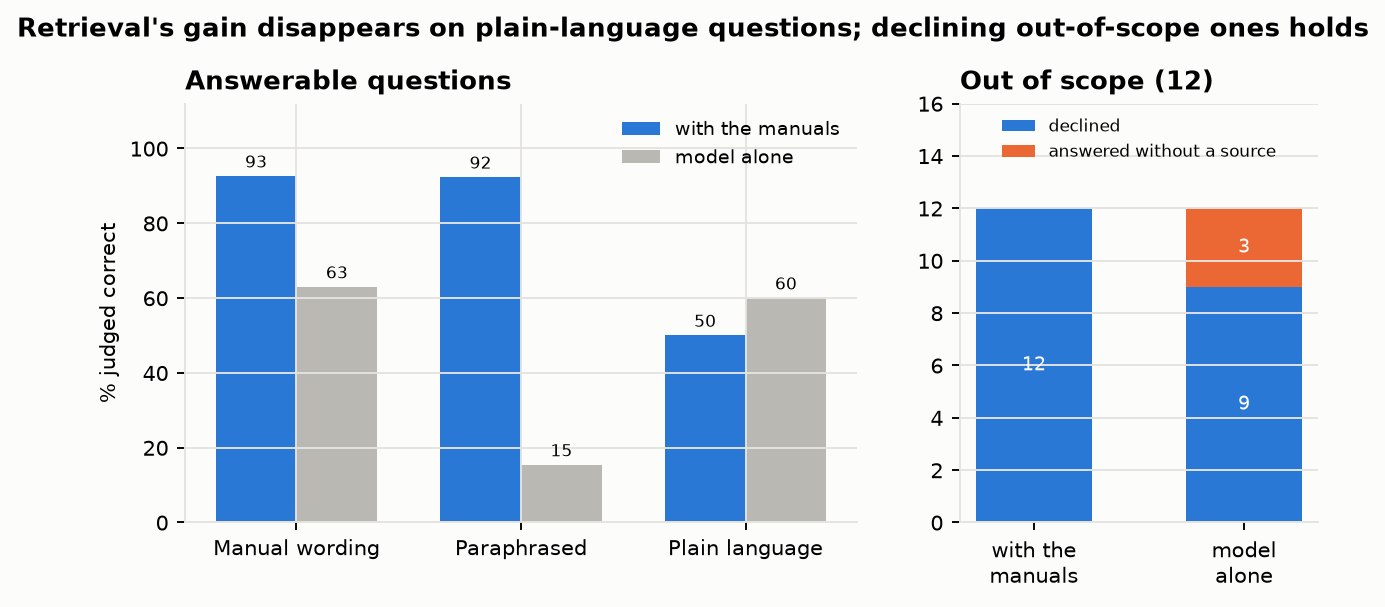
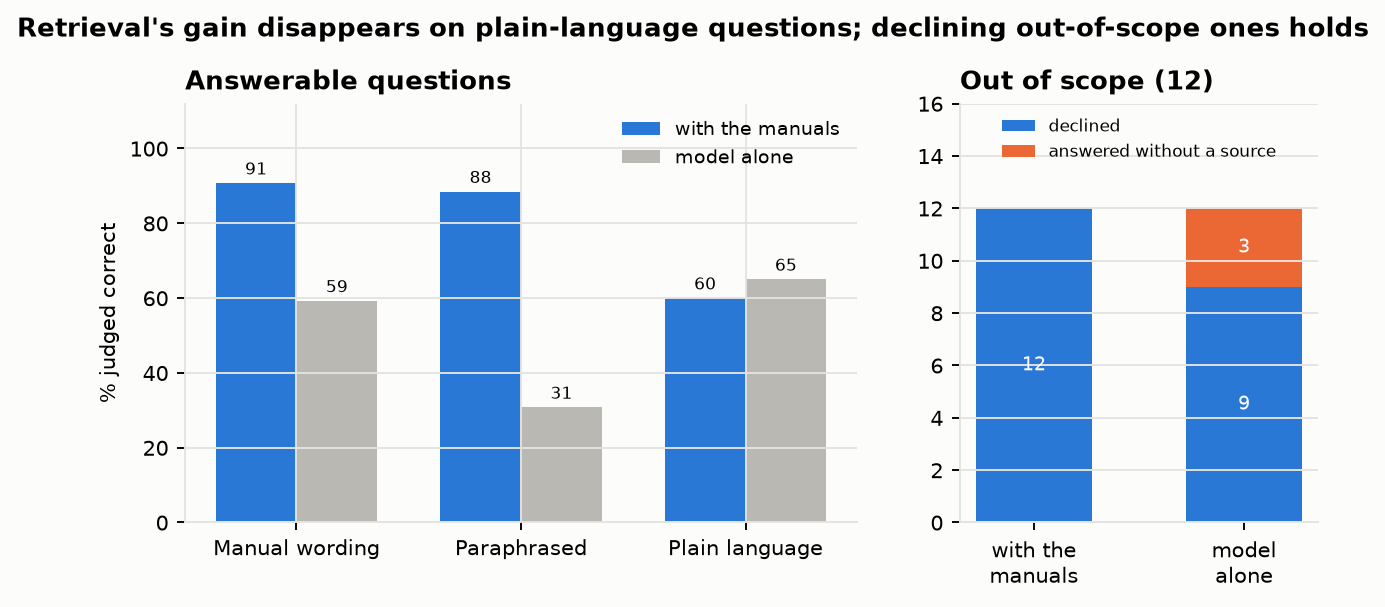
policy-rag post: rerun numbers and figures; reword three headings and labels

diff --git a/docs/blog/posts/policy-rag.md b/docs/blog/posts/policy-rag.md
@@ -1,5 +1,7 @@
 ---
-date: 2026-10-01
+date:
+  created: 2026-10-01
+  updated: 2026-11-04
 slug: policy-rag
 authors:
   - chris
@@ -20,14 +22,21 @@ itself.
 
 <!-- more -->
 
+!!! note "Updated November 4, 2026"
+    A rerun added a cross-encoder reranker (tested twice, kept out), per-answer latency, token and cost tracing,
+    and a change to how answers are scored. The judge had been passing every decline on a question the manuals do
+    answer, which put the model without documents at 53%. Scored with that rule in code, it gets 1%, and agreement
+    with my hand labels rose from κ 0.68 to 0.91. The numbers below are from the rerun.
+
 !!! abstract "TL;DR"
     - **Corpus:** four CMS manuals (NCCI Policy Manual chapters 1 and 11, Medicare Benefit Policy Manual chapter 15, Claims Processing Manual chapter 5), split into 851 section-aware chunks.
-    - **Stack:** Ollama (`nomic-embed-text`, `gemma4:e4b`, `gemma4:26b` as judge), DuckDB, BM25 + embeddings fused with reciprocal rank fusion, MLflow. Everything runs on a laptop with an 8 GB GPU.
-    - **Answers:** 84% judged correct with retrieval vs 50% for the same model without documents; 12 of 12 out-of-scope questions declined.
+    - **Stack:** Ollama (`nomic-embed-text`, `gemma4:e4b`, `gemma4:26b` as judge), DuckDB, BM25 + embeddings fused with reciprocal rank fusion, a cross-encoder reranker under test, MLflow. Everything runs on a laptop with an 8 GB GPU.
+    - **Answers:** 80% correct with retrieval vs 1% for the same model without documents, scored by the judge plus a code rule that fails a decline on a question the manuals answer; 12 of 12 out-of-scope questions declined.
     - **Retrieval:** keyword search found the right section for 100% of questions written in the manuals' wording but only 40% of plain-language ones; embeddings reached 70% on those.
-    - **Weak spot:** plain-language questions score 45% correct vs 92-93% for the rest, and there retrieval does no better than the model alone. That sets what to tune and what to monitor.
-    - **Judge:** calibrated against 37 hand labels; correctness agreement 92%, Cohen's κ 0.68.
-    - **MLOps:** MLflow traces every answer and runs a chunking sweep with a rule fixed in advance; Evidently watches label-free retrieval signals for drift and feeds a review queue.
+    - **Weak spot:** plain-language questions score 40% correct vs 91% on the manuals' wording and 88% paraphrased. That sets what to tune and what to monitor.
+    - **Reranking:** a cross-encoder added 2 points at top 5, inside its interval, and no gain on answers; both tests had their rules written first, and hybrid stays.
+    - **Judge:** checked against 37 hand labels: κ 0.68 for the judge alone, 0.91 with the decline rule in code.
+    - **MLOps:** MLflow traces every answer with latency, tokens and cost (p95 13.2 s); a chunking sweep runs with a rule fixed in advance; Evidently watches label-free retrieval signals for drift and feeds a review queue.
     - **Code:** [github.com/RonCom/policy-rag](https://github.com/RonCom/policy-rag).
 
 ## Why this problem
@@ -100,6 +109,7 @@ A hit means a chunk from the gold section is among the top results.
 | Keyword (BM25) | 76% | 88% | 100% | 40% |
 | Embeddings | 70% | 90% | 95% | **70%** |
 | **Hybrid** | **76%** | **92%** | 100% | 60% |
+| Rerank (cross-encoder over hybrid's top 20) | 72% | 94% | 100% | 70% |
 
 The plain-language questions changed the picture. Keyword search, perfect on manual wording, found the right
 section for only 4 of 10 everyday questions; embeddings found 7. Hybrid keeps keyword search's precision on exact
@@ -108,20 +118,34 @@ ranking among methods is suggestive, not settled.
 
 ![Recall at 5 by question wording and retriever](../../assets/policy-rag/retrieval_by_style.png)
 
-**What this changes.** Hybrid stays the default; dense leads on plain language by one question in ten, which is
-not evidence. Everyday wording is the failure mode, so it is what monitoring watches (below) and where the test
-set needs more questions.
+Keyword search and embeddings each score the question and a chunk separately. A cross-encoder reads the two
+together, which is the check plain-language misses call for, but it's too slow to run over 851 chunks, so it
+re-scores hybrid's top 20. It found one more question in the top 5 (94% vs. 92%, 95% interval −4 to +8 points)
+and moved two correct sections out of first place. My rule, written before the run, switched only if the interval
+cleared zero, so hybrid stayed.
+
+Recall isn't answer quality, so rerank got a second test on answers, again with the rule written first: switch only
+if correctness on the 50 answerable questions rises with an interval above zero and false declines don't. Both
+scored 84% on the judge's grades (interval −9 to +9 points). Rerank changed the grade on 11 questions, six better
+and five worse: it fixed a question about billing a 5-minute service and declined two that hybrid answered. Hybrid
+stays the answer retriever.
+
+**What this changes.** Hybrid stays the default; dense and rerank lead on plain language by one question in ten,
+which is not evidence. Everyday wording is the failure mode, so it is what monitoring watches (below) and where
+the test set needs more questions.
 
 ## Results: answers
 
 | | With retrieval | Same model, no documents |
 |---|---|---|
-| Judged correct (answerable questions) | **84%** | 50% |
+| Correct, answerable questions (judge + decline rule) | **80%** | 1% |
+| Judge alone, answerable questions | 84% | 53% |
 | Declined the 12 out-of-scope questions | **12 / 12** | 9 / 12 |
-| Declined an answerable question | 3 / 50 | – |
+| Declined an answerable question | 3 / 50 (one in prose) | – |
 | Cited a gold section when answering | 89% | – |
 
-Retrieval raises correctness from 50% to 84%, and every claim is tied to a section. Without the documents, the model
+Retrieval raises correctness from 1% to 80%, and every claim is tied to a section. The judge alone put the model
+without documents at 53%, and the gap is the subject of the judge section below. Without the documents, the model
 answered three out-of-scope questions (Part D penalties, Medicare Advantage risk adjustment, ACO benchmarks) from
 general knowledge. Those answers were broadly reasonable, but nothing in them could be checked against a source, which
 is the property a reviewer needs.
@@ -130,12 +154,14 @@ Breaking the results down by how a question is worded tells a sharper story than
 
 ![Answer grades split by whether retrieval found the gold section](../../assets/policy-rag/answer_outcomes.png)
 
-Eleven of the 50 answerable questions fall short of fully correct. Four are retrieval misses, all on plain-language
-questions, and all four answers were wrong. Asked whether Medicare stops paying once a patient stops improving, the
-system retrieved a section on notifying beneficiaries instead of §220.2's rule on maintenance therapy, and answered
-"yes"; the manual's answer is "not necessarily." The other seven had the right section and still fell short, mostly
-by leaving out a secondary fact such as the 14-day signature rule for verbal certifications. Plain-language
-questions score 45%; the other 40 score 92-93%.
+Fourteen of the 50 answerable questions fall short of fully correct. Four are retrieval misses, all on
+plain-language questions, and all four ended wrong: two declines, one of them written as prose instead of the exact
+reply, and two answers from the wrong section. Asked whether Medicare stops paying once a patient stops improving,
+the system retrieved a section on notifying beneficiaries instead of §220.2's rule on maintenance therapy, and
+answered "yes"; the manual's answer is "not necessarily." The other ten had the right section and still fell
+short: eight left out a secondary fact (the 14-day signature rule for verbal orders, the 30-day cancellation
+notice, the 53-minute threshold for a fourth unit), one declined, and one said 15 minutes where the rule is 8.
+Plain-language questions score 40%; manual wording 91% and paraphrased 88%.
 
 **What this changes.** A miss became a wrong answer every time, so retrieval is the first thing to tune. But more
 points are lost with the right section in hand, so the answer step is next. My working hypothesis is that the
@@ -144,10 +170,11 @@ by prompt hash.
 
 ![With and without the manuals, by question wording, and on out-of-scope questions](../../assets/policy-rag/rag_vs_closed_book.png)
 
-Retrieval lifts manual-wording questions from 63% to 93% and paraphrased ones from 15% to 92%, and keeps every
-out-of-scope question declined. On plain-language questions the gain disappears: 50% with the manuals, 60%
-without. Ten questions is too few to call that a loss, but it is the worse failure: a wrong answer from the wrong
-section arrives *with a citation*, which looks more trustworthy than an unsourced guess.
+Retrieval lifts manual-wording questions from 0% to 91%, paraphrased ones from 0% to 88% and plain-language ones
+from 5% to 40%, and keeps every out-of-scope question declined. Without the manuals, the model declined 26 of the 50
+answerable questions and got 23 of its 24 answers wrong. Plain language is where retrieval is weakest, and its
+failure there is the worse kind: a wrong answer from the wrong section arrives *with a citation*, which looks more
+trustworthy than an unsourced guess.
 
 **What this changes.** Everyday questions need better retrieval before their answers can be trusted. A guard to
 test later: when the monitoring signals say retrieval is unsure, decline or flag instead of answering.
@@ -158,24 +185,31 @@ Correctness and faithfulness were graded by a larger local model (`gemma4:26b`) 
 is only useful if it agrees with a person, so I labeled 37 answers by hand, choosing a mix of errors, partial answers
 and declines, and compared:
 
-| | Agreement | Cohen's κ | Judge pass rate | My pass rate |
-|---|---|---|---|---|
-| Correctness | 92% (34 / 37) | **0.68** | 86% | 84% |
-| Faithfulness | 97% (36 / 37) | – | 97% | 100% |
+| Correctness | Labels | Agreement | Cohen's κ | Scored pass rate | My pass rate |
+|---|---|---|---|---|---|
+| Judge alone, first run | 37 | 92% (34 / 37) | 0.68 | 86% | 84% |
+| Judge + decline rule, first run | 37 | 97% (36 / 37) | **0.91** | 81% | 84% |
+| Judge alone, rerun | 20 | 95% (19 / 20) | 0.77 | 90% | 85% |
+| Judge + decline rule, rerun | 20 | 100% (20 / 20) | 1.00 | 85% | 85% |
 
-Correctness agreement is substantial (κ above 0.6), so the 84% figure stands. For faithfulness, every answer I
-labeled was faithful, so κ has no variation to measure and agreement is the meaningful number.
+The disagreements showed a pattern. The judge passed "NOT IN DOCUMENTS" replies whenever the excerpts it was shown
+lacked the answer, even when the manuals contain it. It grades against what was retrieved, so a retrieval miss looks
+like a correct decline. In the rerun, without documents, the model declined 26 of 50 answerable questions and the
+judge passed all 26. Of the 24 answers it gave, the judge failed 23 and gave one partial credit, so 52 of its 53
+points were credit for declines.
 
-The disagreements showed a pattern. The judge accepted two "NOT IN DOCUMENTS" replies because the excerpts it was
-shown lacked the answer, even though the manuals contain it. It grades against what was retrieved, so a retrieval miss
-can look like a correct decline. A deterministic check (did retrieval return the gold section?) catches those cases,
-which is a good reason not to rely on the judge alone.
+Whether a question is answerable is fixed by the test set, so that rule doesn't need a judge. A decline on an
+answerable question now scores 0 in code, whether it's the exact reply or written as prose ("the excerpts do not
+provide a specific answer"), and an exact decline counts as faithful, which the judge's rubric already said and the
+judge once ignored. With the rule, agreement with my labels went from κ 0.68 to 0.91. The rerun's κ 1.00 is on 20
+labels, the ones whose answers came out word for word the same, so it's a small sample.
 
-![LLM judge vs human grades on 37 answers](../../assets/policy-rag/judge_calibration.png)
+![LLM judge vs human grades on the labeled answers that match the rerun](../../assets/policy-rag/judge_calibration.png)
 
-**What this changes.** The judge grades correctness at scale, but every decline is also checked against whether
-retrieval found the gold section. The calibration holds for one judge model and one judge prompt; changing either
-means labeling a fresh sample.
+**What this changes.** The judge grades what code can't: correctness of an answer against the reference's key facts.
+Rules the test set decides exactly run in code after it, and both grades are kept, so every comparison shows the
+judge alone and the judge with the rules. The calibration holds for one judge model and one judge prompt; changing
+either means labeling a fresh sample.
 
 Defining the labels mattered too. On my first pass I scored two wrong answers as "unfaithful" because they were
 wrong, but they accurately quoted the (wrong) sections they were given. Faithful means supported by the excerpts, not
@@ -218,7 +252,7 @@ search. It gets the same treatment: an ablation on plain-language questions, onc
 
 An evaluation is a snapshot. Two questions remain once the system is in use: which configuration is running and
 why, and whether it still works on the questions people actually ask. I used MLflow for the first and Evidently for
-the second, and the design choices were mostly about keeping both honest at this scale.
+the second, and the design choices were mostly about keeping both trustworthy at this scale.
 
 **Every answer is a trace.** Each question is logged as an MLflow trace with three spans: `rag`, `retrieve` (the
 five excerpts with section, page, rank and score) and `generate` (prompt version and reply). Three kinds of scores
@@ -227,8 +261,19 @@ grade with its reason, and my hand label. When the judge and I disagree, I open 
 was shown; that is where the judge's leniency on declines after a retrieval miss becomes obvious.
 
 **Runs carry their lineage.** Each eval run logs the models and chunking settings, plus hashes of the question file
-and both prompts, and the git commit. The question set grew from 52 to 62 during this project; without the hash,
-two accuracy numbers from different question sets look comparable when they aren't.
+and both prompts, the git commit, the Ollama version and each model's digest. The question set grew from 52 to 62
+during this project; without the hash, two accuracy numbers from different question sets look comparable when they
+aren't. The version and digests came later, for a reason: a rerun with the same prompt hashes, still at
+temperature 0, changed 35 of 62 answers. The closed-book answers changed too, and they involve no retrieval, which
+points at the model or the server; the first run logged neither, so the cause can't be pinned down. Hand labels and
+judge grades only count against the exact answer they graded, so a script copies grades to answers whose text came
+out identical and sends only the changed ones back to the judge.
+
+**Every answer carries its cost.** The trace records latency per step, tokens in and out, Ollama's own timings
+(model load, prompt processing, generation) and dollars from a price table, which is empty for local models and
+gets a row for any hosted one. On the rerun: p50 10.3 s, p95 13.2 s, with generation 11.1 s of the p95 and
+retrieval 2.1 s. That points the first latency fix at the answer model. A change to the prompt, top-k or reranker
+moves accuracy and cost together, and each run reports both.
 
 **The chunk size gets tested, not defended.** I had picked 300-word chunks by judgment. `policy-rag sweep` tries
 five chunkings with all three retrievers as nested MLflow runs. It sweeps retrieval only, because retrieval is
@@ -315,12 +360,15 @@ looked confident to retrieval and weren't flagged. Those depend on the answer st
 - **Everything is logged to MLflow:** settings, lineage hashes, metrics, traces and reports, in a local SQLite
   store. There is no tracking server or model registry: it is one person on one laptop, and nothing here is trained.
 - **A `--fake` mode** (hash embeddings and canned replies) runs the full pipeline and tests without a model server.
+- **Grades are reused when answers repeat:** `scripts/reuse_judge.py` copies judge grades to answers identical to a
+  graded run and judges only the rest. On the rerun that saved 27 of 62 answer grades and 34 of 62 closed-book ones.
 
 ## Limits
 
 - **Four chapters, not the full manuals.** A production version would index all relevant chapters, local coverage
   determinations and articles, and refresh them when CMS revises a manual.
-- **62 questions is small,** and only 10 are in plain language. Differences between search methods have wide intervals.
+- **62 questions is small,** and only 10 are in plain language. Differences between search methods have wide
+  intervals: one question is two points, and the rerank answer test's interval spanned −9 to +9.
 - **I drafted the questions with an AI assistant** and checked each against its source. A reviewer-written test set
   would be a stronger benchmark.
 - **The answers quote policy;** they are not billing or legal advice.

diff --git a/docs/blog/posts/care-outreach.md b/docs/blog/posts/care-outreach.md
@@ -19,7 +19,7 @@ A care-management team has a budget, a fixed number of nurse and pharmacist hour
 !!! abstract "TL;DR"
     - **Predict:** a deep learning model (a GRU over 24 months of utilization plus an MLP) reached **AUC 0.713**, ahead of gradient boosting (0.704; +0.009, 95% CI +0.002 to +0.016) and logistic regression (0.680).
     - **Prescribe:** uplift models trained on a randomized pilot, plus an integer program over five programs under budget, staff-hour and capacity limits, averted **74% more** expected acute events than nurse calls to the highest-risk members.
-    - **The honest limit:** with true program effects, the same optimizer does much better. **Estimating effects from a one-year pilot, not optimizing, is the bottleneck.**
+    - **The limit:** with true program effects, the same optimizer does much better. **Estimating effects from a one-year pilot, not optimizing, is the bottleneck.**
     - **Keep learning:** a contextual bandit (Thompson sampling) beat a frozen recommender by 34–53% across five seeds. Evidently drift monitoring and MLflow champion/challenger retraining caught a claims-feed change a year before labels arrived.
     - **Steer:** a capacity-constrained linear program sends members who need physical therapy to lower-cost real North Carolina providers. It nearly doubles savings over "recommend the cheapest nearby".
 
@@ -140,7 +140,7 @@ Optimizing the assignment nearly doubles savings, because the cheapest provider 
 - **Optimization pays most when the inputs are good.** Across outreach, audits and steering, the step from "rank and go down the list" to "optimize under constraints" gave the largest gains.
 - **Estimating effects is the hard part.** When the optimizer lost to a simple rule, the cause was noisy effect estimates, and the true-effects ceiling showed exactly how much was left.
 - **Learning online helps in proportion to how wrong you started.** Small gains when the starting model was close; larger when a program or a feed changed; none without forgetting old evidence.
-- **Write the selection rule before looking.** Choosing learners on pilot data only, and tuning exploration on the first year only, kept the comparisons honest. Where I changed something after seeing results, the write-up says so.
+- **Write the selection rule before looking.** Choosing learners on pilot data only, and tuning exploration on the first year only, kept later data out of those choices. Where I changed something after seeing results, the write-up says so.
 
 ## Engineering
 

diff --git a/docs/blog/posts/minijev.md b/docs/blog/posts/minijev.md
@@ -49,7 +49,7 @@ same scale as Jev's.
 
 The untrained model already produces Jev-shaped output this way. Training is for accuracy and calibration.
 
-## Design choice 2: reward honest probabilities, exactly
+## Design choice 2: reward calibrated probabilities, exactly
 
 The loss is a proper scoring rule: log score plus Brier score, plus ranked probability score for rubric questions. A
 proper scoring rule is maximized only when the stated probability equals the real chance of being right, so it pays
